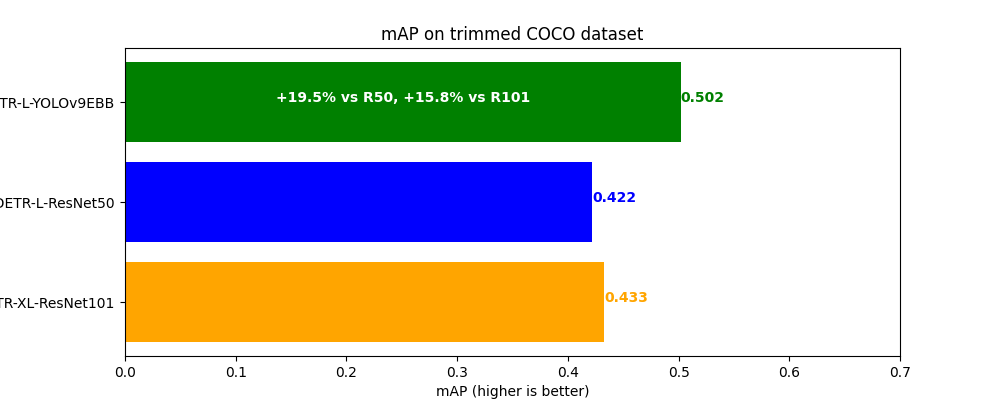
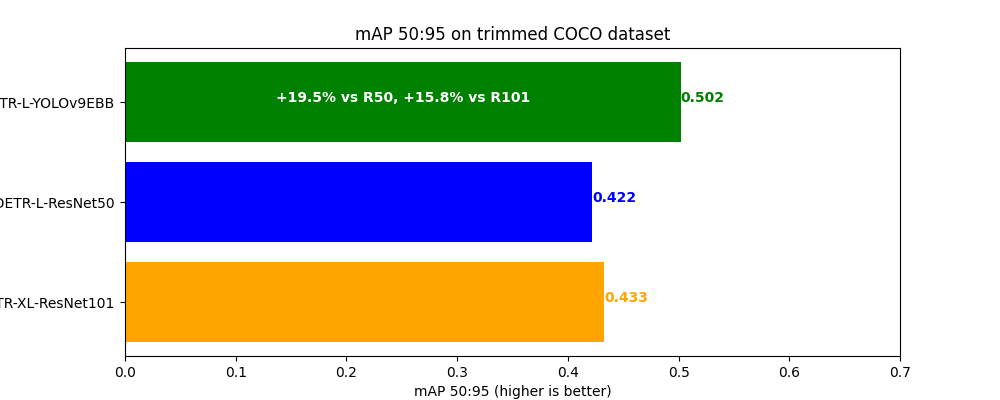
updated readme

Changed region(s): [[0.341, 0.06, 0.682, 0.12], [0.403, 0.96, 0.62, 1.0]]

diff --git a/README.md b/README.md
@@ -27,71 +27,40 @@
 </p>
 
 ---
-<details>
-<summary>Fig</summary>
 
-![mAP score](assets/map.png)
-</details>
+<summary>Figures</summary>
 
+![mAP 50:95 score](assets/architecture.png)
 
+![mAP 50:95 score](assets/map.png)
 
-This is the official implementation of the paper "[DETRs Beat YOLOs on Real-time Object Detection](https://arxiv.org/abs/2304.08069)".
+![inference time](assets/time.png)
 
+![parameters count](assets/param.png)
 
-## Updates!!!
-- \[2024.01.23\] Fix difference on data augmentation with paper in rtdetr_pytorch [#84](https://github.com/lyuwenyu/RT-DETR/commit/5dc64138e439247b4e707dd6cebfe19d8d77f5b1)
-- \[2023.11.07\] Add pytorch *rtdetr_r34vd* for requests [#107](https://github.com/lyuwenyu/RT-DETR/issues/107), [#114](https://github.com/lyuwenyu/RT-DETR/issues/114)
-- \[2023.11.05\] upgrade the logic of `remap_mscoco_category` to facilitate training of custom datasets, see detils in [*Train custom data*](./rtdetr_pytorch/) part. [#81](https://github.com/lyuwenyu/RT-DETR/commit/95fc522fd7cf26c64ffd2ad0c622c392d29a9ebf)
-- \[2023.10.23\] Add [*discussion for deployments*](https://github.com/lyuwenyu/RT-DETR/issues/95), supported onnxruntime, TensorRT, openVINO
-- \[2023.10.12\] Add tuning code for pytorch version, now you can tuning rtdetr based on pretrained weights
-- \[2023.09.19\] Upload [*pytorch weights*](https://github.com/lyuwenyu/RT-DETR/issues/42) convert from paddle version
-- \[2023.08.24] Release rtdetr-18 pretrained models on objects365. *49.2 mAP* and *217 FPS*
-- \[2023.08.22\] Upload *[rtdetr_pytorch](./rtdetr_pytorch/)* source code. Please enjoy it ❤
-- \[2023.08.15\] Release rtdetr-r101 pretrained models on objects365. *56.2 mAP* and *74 FPS*
-- \[2023.07.30\] Release rtdetr-r50 pretrained models on objects365. *55.3 mAP* and *108 FPS*
-- \[2023.07.28\] Fix some bugs, and add some comments. [1](https://github.com/lyuwenyu/RT-DETR/pull/14), [2](https://github.com/lyuwenyu/RT-DETR/commit/3b5cbcf8ae3b907e6b8bb65498a6be7c6736eabc)
-- \[2023.07.13\] Upload [*training logs on coco*](https://github.com/lyuwenyu/RT-DETR/issues/8)
-- \[2023.05.17\] Release RT-DETR-R18, RT-DETR-R34, RT-DETR-R50-m（example for scaled)
-- \[2023.04.17\] Release RT-DETR-R50, RT-DETR-R101, RT-DETR-L, RT-DETR-X
-
-## Implementations
-- rtdetr paddle: [code](./rtdetr_paddle), [weights](./rtdetr_paddle)
-- rtdetr pytorch: [code](./rtdetr_pytorch), [weights](./rtdetr_pytorch)
+|  | Model | mAP 50:95 | Params | Inference time on 1 image RTX-3050 Mobile | Epoch |
+|---|---|---|---|---|---|
+| 2 | RT-DETR-L-YOLOv9Ebb | 0.502 | 48400298 | 0.1297 | 27 |
+| 3 | RT-DETR-L-R50 | 0.42 | 42702570 | 0.1124 | 27 |
+| 4 | RT-DETR-L-R101 | 0.4333 | 76395978 | 0.1516 | 42 |
 
 
-| Model | Epoch | Input shape | Dataset | $AP^{val}$ | $AP^{val}_{50}$| Params(M) | FLOPs(G) | T4 TensorRT FP16(FPS)
-|:---:|:---:|:---:| :---:|:---:|:---:|:---:|:---:|:---:|
-| RT-DETR-R18 | 6x | 640 | COCO | 46.5 | 63.8 | 20 | 60 | 217 |
-| RT-DETR-R34 | 6x | 640 | COCO | 48.9 | 66.8 | 31 | 92 | 161 |
-| RT-DETR-R50-m | 6x | 640 | COCO | 51.3 | 69.6 | 36 | 100 | 145 |
-| RT-DETR-R50 | 6x |  640 | COCO | 53.1 | 71.3 | 42 | 136 | 108 |
-| RT-DETR-R101 | 6x | 640 | COCO | 54.3 | 72.7 | 76 | 259 | 74 |
-| RT-DETR-HGNetv2-L | 6x | 640 | COCO | 53.0 | 71.6 | 32 | 110 | 114 |
-| RT-DETR-HGNetv2-X | 6x | 640 | COCO | 54.8 | 73.1 | 67 | 234 | 74 |
-| RT-DETR-R18 | 5x | 640 | COCO + Objects365 | **49.2** | **66.6** | 20 | 60 | **217** |
-| RT-DETR-R50 | 2x | 640 | COCO + Objects365 | **55.3** | **73.4** | 42 | 136 | **108** |
-| RT-DETR-R101 | 2x | 640 | COCO + Objects365 | **56.2** | **74.6** | 76 | 259 | **74** |
+**The existing weight is trained with trimmed COCO dataset**
+This research is quite constrained with the budget, so to train enough models, we have to trim the COCO dataset with specific below:
 
-**Notes:**
-- `COCO + Objects365` in the table means finetuned model on COCO using pretrained weights trained on Objects365.
+| Stage | Class/label | Total image count | Total annotation count | Image count used in this training | Annotation count used in this training |
+|---|---|---|---|---|---|
+| Training | person | 64115 | 269578 | 5000 | 20753 |
+| Training | bicycle | 3252 | 269578 | 3252 | 23261 |
+| Validation | person | 2693 | 11320 | 2693 | 11279 |
+| Validation | bicycle | 149 | 11320 | 149 | 1118 | 
 
-
-## Introduction
-We propose a **R**eal-**T**ime **DE**tection **TR**ansformer (RT-DETR, aka RTDETR), the first real-time end-to-end object detector to our best knowledge. Our RT-DETR-L achieves 53.0% AP on COCO val2017 and 114 FPS on T4 GPU, while RT-DETR-X achieves 54.8% AP and 74 FPS, outperforming all YOLO detectors of the same scale in both speed and accuracy. Furthermore, our RT-DETR-R50 achieves 53.1% AP and 108 FPS, outperforming DINO-Deformable-DETR-R50 by 2.2% AP in accuracy and by about 21 times in FPS. 
-<div align="center">
-  <!-- <img src="https://github.com/PaddlePaddle/PaddleDetection/assets/17582080/3184a08e-aa4d-49cf-9079-f3695c4cc1c3" width=300 /> -->
-  <img src="https://github.com/lyuwenyu/RT-DETR/assets/17582080/42636690-1ecf-4647-b075-842ecb9bc562" width=500 >
-</div>
+## Modification & Training Procedure
+- Removed auxiliary branch from YOLOv9 E Backbone
+- Plug in the backbone into the RT-DETR framework
+- Load the YOLOv9 E backbone weight into the new RT-DETR backbone
+- Freeze the backbone
+- Train & Benchmarking the model
 
 ## Citation
-If you use `RT-DETR` in your work, please use the following BibTeX entries:
-```
-@misc{lv2023detrs,
-      title={DETRs Beat YOLOs on Real-time Object Detection},
-      author={Wenyu Lv and Shangliang Xu and Yian Zhao and Guanzhong Wang and Jinman Wei and Cheng Cui and Yuning Du and Qingqing Dang and Yi Liu},
-      year={2023},
-      eprint={2304.08069},
-      archivePrefix={arXiv},
-      primaryClass={cs.CV}
-}
-```
+Paper publication ASAP
